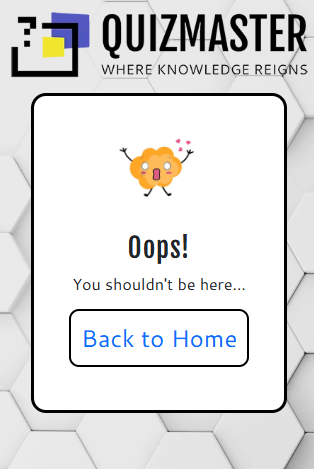
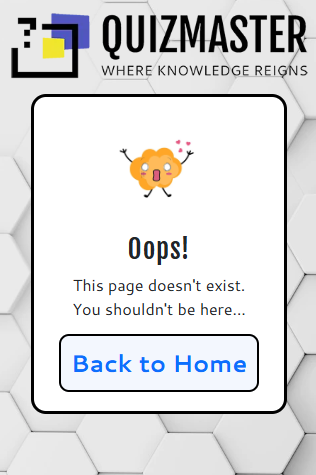
updated 404 page text

diff --git a/404.html b/404.html
@@ -34,7 +34,7 @@
             <div class="col-sm-12">
 
               <h1 class="text-center">Oops!</h1>
-              <p>This page doesn't exist,<br>
+              <p>This page doesn't exist.<br>
                 You shouldn't be here...</p>
               <a href="index.html">Back to Home</a>
             </div>

diff --git a/README.md b/README.md
@@ -361,6 +361,7 @@ Number | User Story |  Test | Pass
 
 ## Deployment
 #### Creating Repository on GitHub
+
 - First make sure you are signed into [Github](https://github.com/) and go to the code institutes template, which can be found [here](https://github.com/Code-Institute-Org/gitpod-full-template).
 - Then click on **use this template** and select **Create a new repository** from the drop-down. Enter the name for the repository and click **Create repository from template**.
 - Once the repository was created, I clicked the green **gitpod** button to create a workspace in gitpod so that I could write the code for the site.
@@ -397,5 +398,7 @@ The project was deployed using GitHub pages. The steps to deploy using GitHub pa
 > Answer Buttons CSS - Mhyar-nsi: [Link](https://uiverse.io/Mhyar-nsi/tiny-wasp-99)
 
 > 404 page shocked cartoon image -  Ladixstudio: [Link](https://www.creativefabrica.com/product/kawaii-cartoon-character-cute-shocked/)
+
 ### Acknowledgment
+
 > Thank you to course facilitator Marko for providing a lot of useful information and weekly standup calls.
